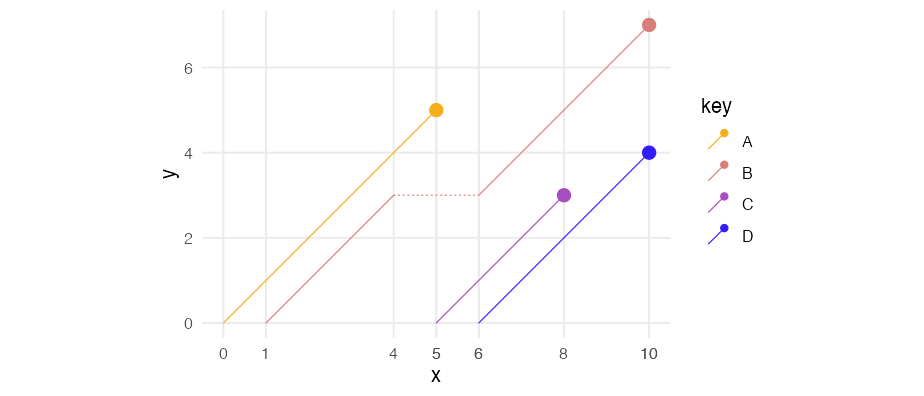
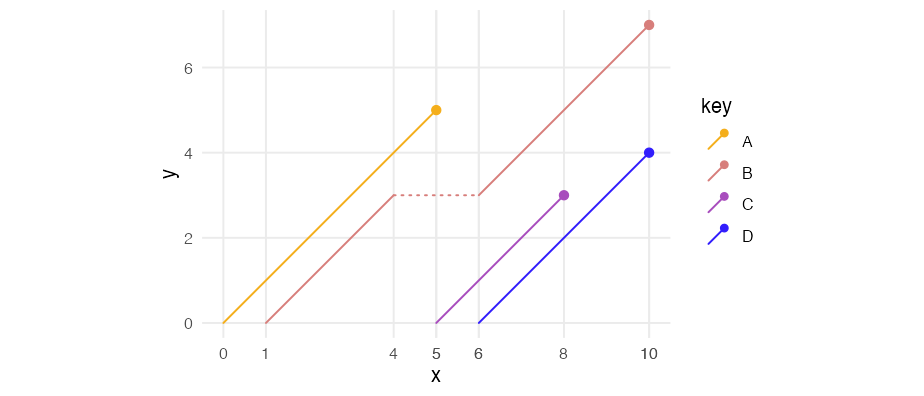
make geom_lexis use linewidth argument, update snaps and examples

diff --git a/NEWS.md b/NEWS.md
@@ -1,27 +1,22 @@
 # current dev version
 
 # ggpointless 0.1.0
-* `geom_catenary()`
-* `stat_catenary()`
+* new: `geom_catenary()`
+* new: `stat_catenary()`
+* `geom_lexis()` supports `linewidth` argument
+* `geom_lexis()` deprecates `point_size` argument in favour of `size`
 
 # ggpointless 0.0.3
-* `geom_chaikin()`
-* `stat_chaikin()`
+* new: `geom_chaikin()`
+* new: `stat_chaikin()`
 
 # ggpointless 0.0.2
-## geoms/stats
-* `geom_lexis()`
-* `stat_lexis()`
-
-## datasets
-* `female_leaders`
+* new: `geom_lexis()`
+* new: `stat_lexis()`
+* new: `female_leaders` dataset
 
 # ggpointless 0.0.1
-
-## geoms/stats
-* `geom_pointless()`
-* `stat_pointless()`
-
-## datasets
-* `covid_vac`
-* `co2_ml`
+* new: `geom_pointless()`
+* new: `stat_pointless()`
+* new: `covid_vac` dataset
+* new: `co2_ml` dataset

diff --git a/README.md b/README.md
@@ -98,7 +98,7 @@ df2 <- data.frame(
 )
 
 ggplot(df2, aes(x = x, xend = xend, color = key)) +
-  geom_lexis(aes(linetype = after_stat(type)), size = .5, point_size = 3) +
+  geom_lexis(aes(linetype = after_stat(type)), size = 2) +
   coord_equal() +
   scale_x_continuous(breaks = c(df2$x, df2$xend)) +
   scale_color_manual(values = cols) +
@@ -157,7 +157,7 @@ ggplot(data.frame(x = c(0, 2, 8), y = c(2, 1, 3)),
        aes(x, y)) + 
   geom_catenary() +
   geom_point(size = 3, colour = cols[1])
-#> Overall chainLength is 17.1
+#> Set chainLength to 17.1
 ```
 
 <img src="man/figures/README-geom-catenary-1.png" width="100%" style="display: block; margin: auto;" />
